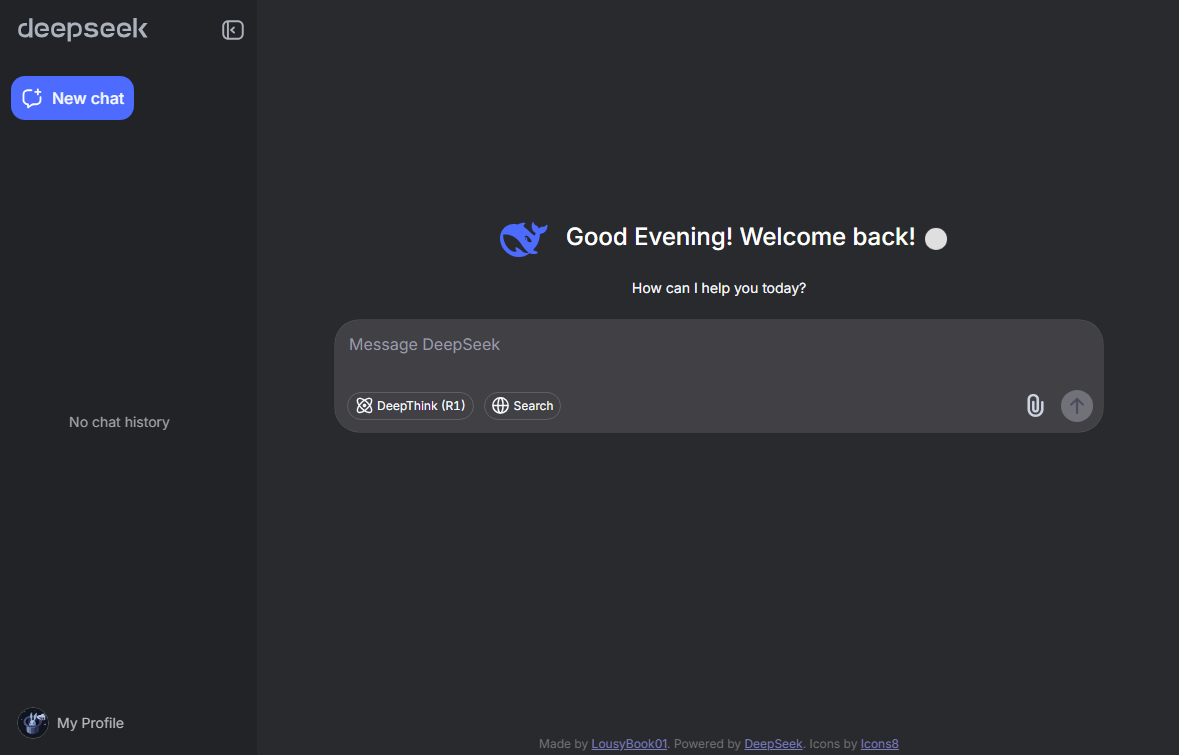
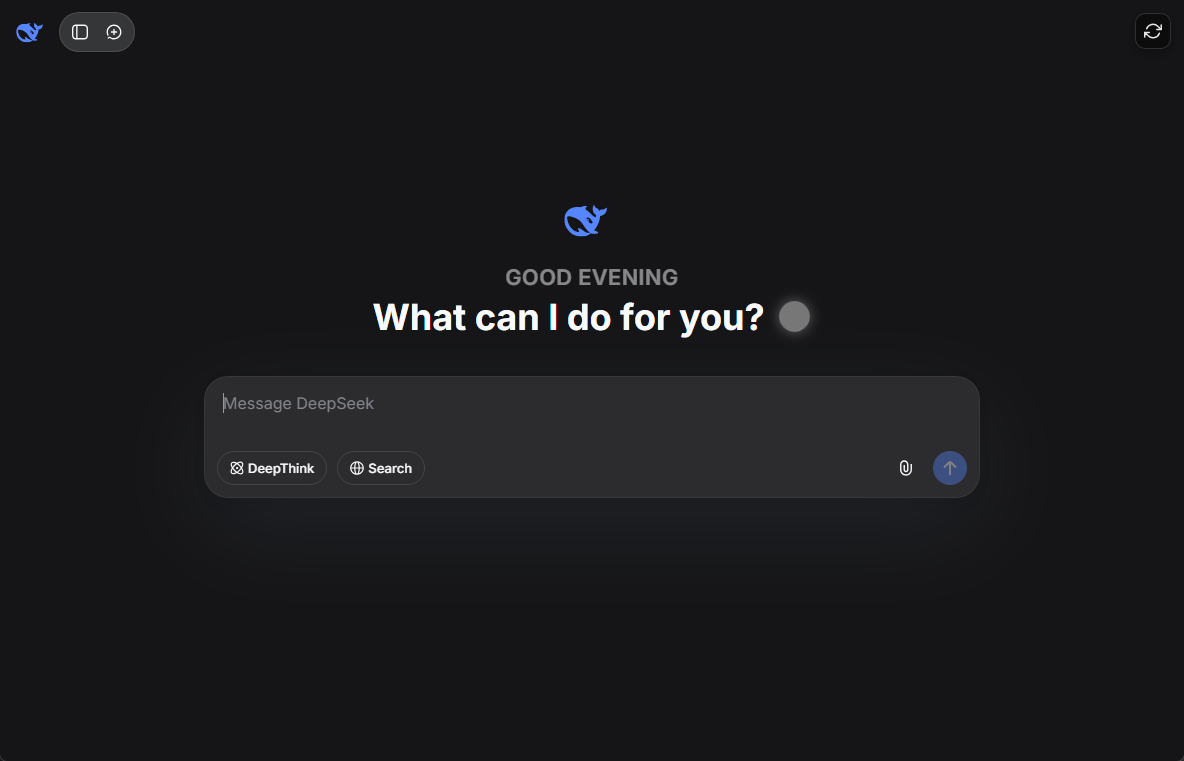
Fix code block rendering, cursor glow, and version display

diff --git a/injection/inject.js b/injection/inject.js
@@ -99,10 +99,9 @@ const injectStyles = () => {
             height: 35px;  /* Much Bigger */
             background-color: #ffffff;
             border-radius: 50%;
-            margin-left: 12px;
+            margin-left: 5px;
             vertical-align: middle;
             animation: blink 1.2s infinite ease-in-out;
-            box-shadow: 0 0 15px rgba(255, 255, 255, 0.8); /* Stronger Glow */
         }
         
         @keyframes blink { 
@@ -154,7 +153,6 @@ const injectStyles = () => {
     document.head.appendChild(style);
 };
 
-// Script Loader
 const loadScript = (src) => {
     return new Promise((resolve, reject) => {
         if (document.querySelector(`script[src="${src}"]`)) return resolve();
@@ -165,6 +163,15 @@ const loadScript = (src) => {
         script.onerror = reject;
         document.head.appendChild(script);
     });
+};
+
+// Style Loader
+const loadStyle = (href) => {
+    if (document.querySelector(`link[href="${href}"]`)) return;
+    const link = document.createElement('link');
+    link.rel = 'stylesheet';
+    link.href = href;
+    document.head.appendChild(link);
 };
 
 // ==========================================
@@ -202,26 +209,27 @@ function createUI() {
 // ==========================================
 
 const VersionManager = {
-    currentPort: null,
+    lastVersion: '...',
 
-    async findPort() {
-        if (this.currentPort) return this.currentPort;
-        const checks = CONFIG.ports.map(port =>
-            fetch(`http://localhost:${port}/version.txt`).then(res => res.ok ? port : Promise.reject())
-        );
-        try {
-            this.currentPort = await Promise.any(checks);
-            return this.currentPort;
-        } catch { return 8080; }
-    },
-
-    async update(displayElement) {
-        try {
-            const port = await this.findPort();
-            const response = await fetch(`http://localhost:${port}/version.txt`);
-            const version = await response.text();
-            this.updateFooter(version.trim());
-        } catch (e) { }
+    update() {
+        const fetchVersion = () => {
+            if (window.pywebview && window.pywebview.api && window.pywebview.api.get_version) {
+                window.pywebview.api.get_version().then(version => {
+                    this.lastVersion = version;
+                    this.updateFooter(version);
+                }).catch(e => console.error("Failed to read version via API", e));
+            } else {
+                // If API not ready, retry in 500ms (max a few times)
+                if (!this._retries) this._retries = 0;
+                if (this._retries < 10) {
+                    this._retries++;
+                    setTimeout(fetchVersion, 500);
+                } else {
+                    this.updateFooter(this.lastVersion);
+                }
+            }
+        };
+        fetchVersion();
     },
 
     updateFooter(version) {
@@ -229,12 +237,12 @@ const VersionManager = {
         footers.forEach(el => {
             if (el.dataset.dsUpdated) return;
             el.innerHTML = `
-                <div style="opacity:0.6; font-size:12px; color: #888;">
-                    Made by <a href="https://github.com/LousyBook94" target="_blank" style="color:inherit; text-decoration:underline;">LousyBook01</a>
-                    &nbsp;•&nbsp; 
-                    Powered by <a href="https://deepseek.com" target="_blank" style="color:inherit; text-decoration:underline;">DeepSeek</a>
-                    &nbsp;•&nbsp; 
-                    v${version}
+                <div style="opacity:0.6; font-size:12px; color: #888; display: flex; align-items: center; gap: 8px;">
+                    <span>Made by <a href="https://github.com/LousyBook94" target="_blank" style="color:inherit; text-decoration:underline;">LousyBook01</a></span>
+                    <span style="opacity: 0.4;">|</span>
+                    <span>Powered by <a href="https://deepseek.com" target="_blank" style="color:inherit; text-decoration:underline;">DeepSeek</a></span>
+                    <span style="opacity: 0.4;">|</span>
+                    <span>v${version || '1.0.0'}</span>
                 </div>
             `;
             el.dataset.dsUpdated = 'true';
@@ -324,8 +332,21 @@ const MarkdownManager = {
         window.marked.setOptions({ gfm: true, breaks: true });
 
         const renderer = new window.marked.Renderer();
-        renderer.code = (code, lang) => `<pre class="code-block"><code class="language-${lang || 'text'}">${code}</code></pre>`;
-        renderer.codespan = (code) => `<code class="inline-code">${code}</code>`;
+        const escapeHtml = (text) => {
+            return text
+                .replace(/&/g, '&amp;')
+                .replace(/</g, '&lt;')
+                .replace(/>/g, '&gt;')
+                .replace(/"/g, '&quot;')
+                .replace(/'/g, '&#039;');
+        };
+
+        renderer.code = (token) => {
+            const { text, lang } = token;
+            const escapedText = escapeHtml(text);
+            return `<pre class="code-block"><code class="language-${lang || 'text'}">${escapedText}</code></pre>`;
+        };
+        renderer.codespan = (token) => `<code class="inline-code">${escapeHtml(token.text)}</code>`;
         window.marked.use({ renderer });
     },
 
@@ -365,7 +386,7 @@ function startObserver(uiRefs) {
         }
 
         if (runFooter) {
-            VersionManager.updateFooter(VersionManager.currentPort ? '...' : '...');
+            VersionManager.updateFooter(VersionManager.lastVersion);
         }
 
         if (runGreeting) {
@@ -383,8 +404,8 @@ function startObserver(uiRefs) {
 (async function init() {
     console.log("DeepSeek Client: Initializing...");
     injectStyles();
-    loadScript(CONFIG.resources.fontInter);
-    loadScript(CONFIG.resources.fontMono);
+    loadStyle(CONFIG.resources.fontInter);
+    loadStyle(CONFIG.resources.fontMono);
 
     const uiRefs = createUI();
 
@@ -393,7 +414,6 @@ function startObserver(uiRefs) {
     if (initialGreeting) GreetingManager.init(initialGreeting);
 
     VersionManager.update(uiRefs.tooltipDisplay);
-    setInterval(() => VersionManager.update(uiRefs.tooltipDisplay), 300000);
 
     try {
         await Promise.all([

diff --git a/main.py b/main.py
@@ -251,6 +251,16 @@ class API:
     def __init__(self):
         self._window = None
 
+    def get_version(self):
+        """Read version from version.txt"""
+        try:
+            if os.path.exists('version.txt'):
+                with open('version.txt', 'r') as f:
+                    return f.read().strip()
+        except Exception as e:
+            _log(f"Error reading version.txt: {e}")
+        return "1.0.0"
+
     def take_screenshot(self):
         """Take a native screenshot of the window on Windows"""
         if not self._window:
